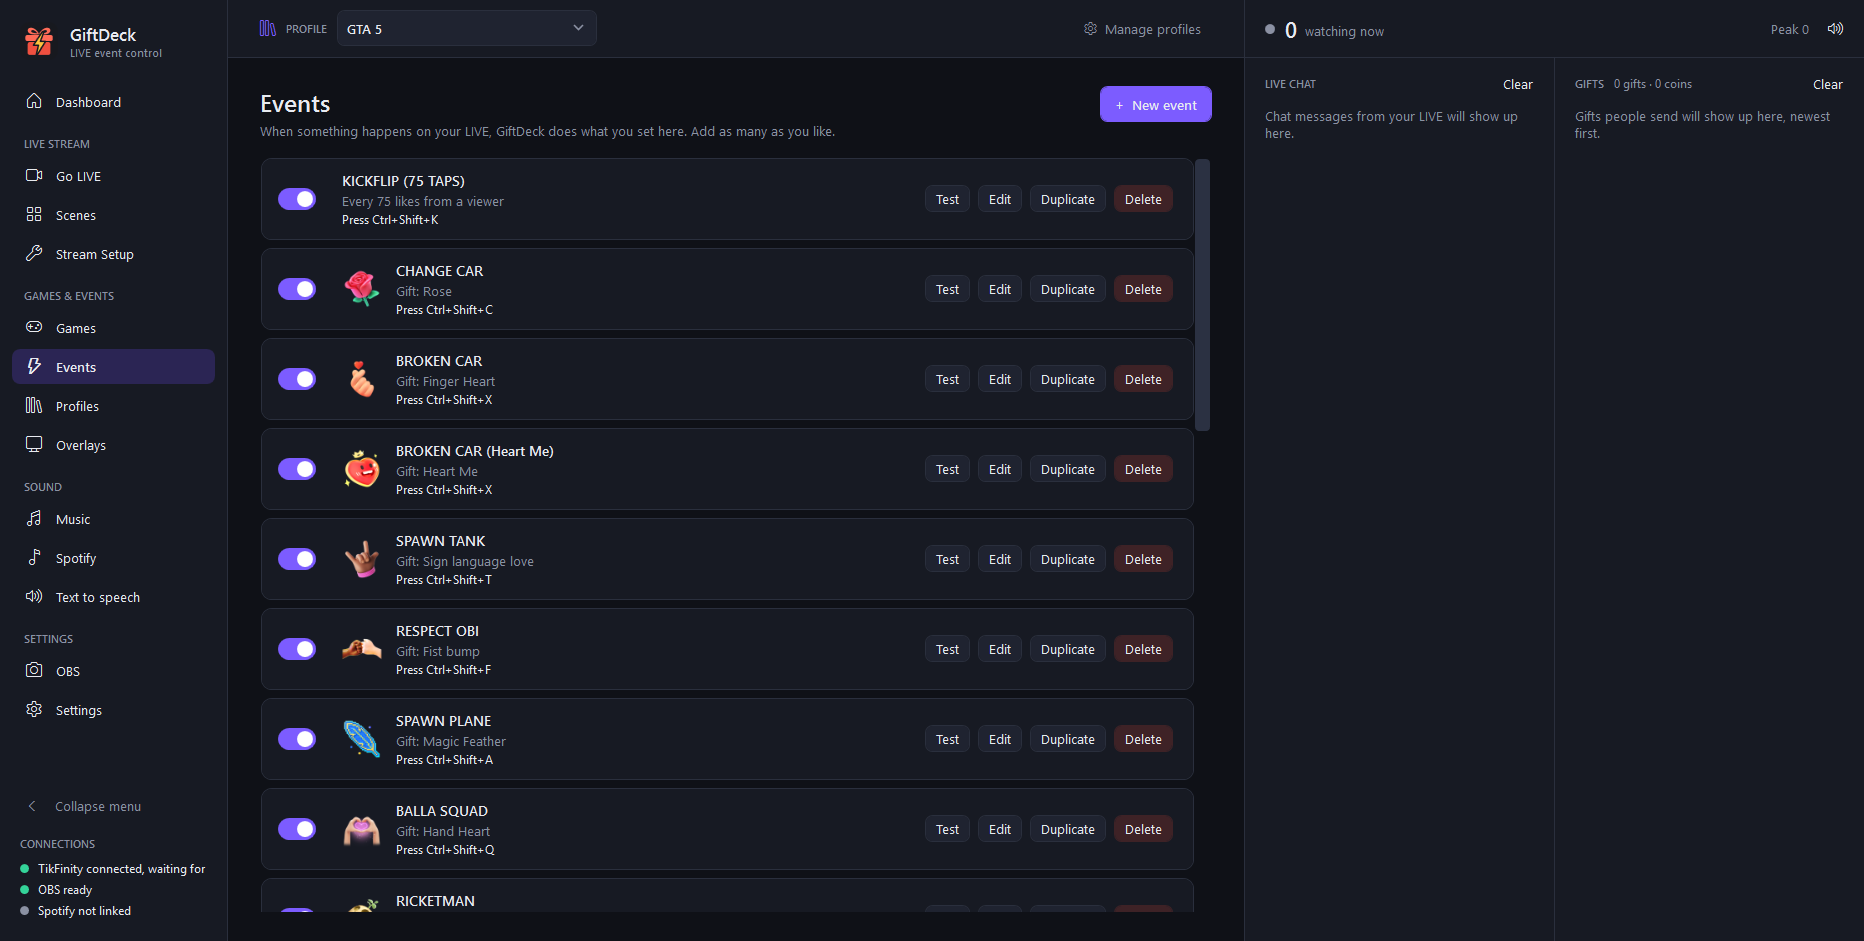
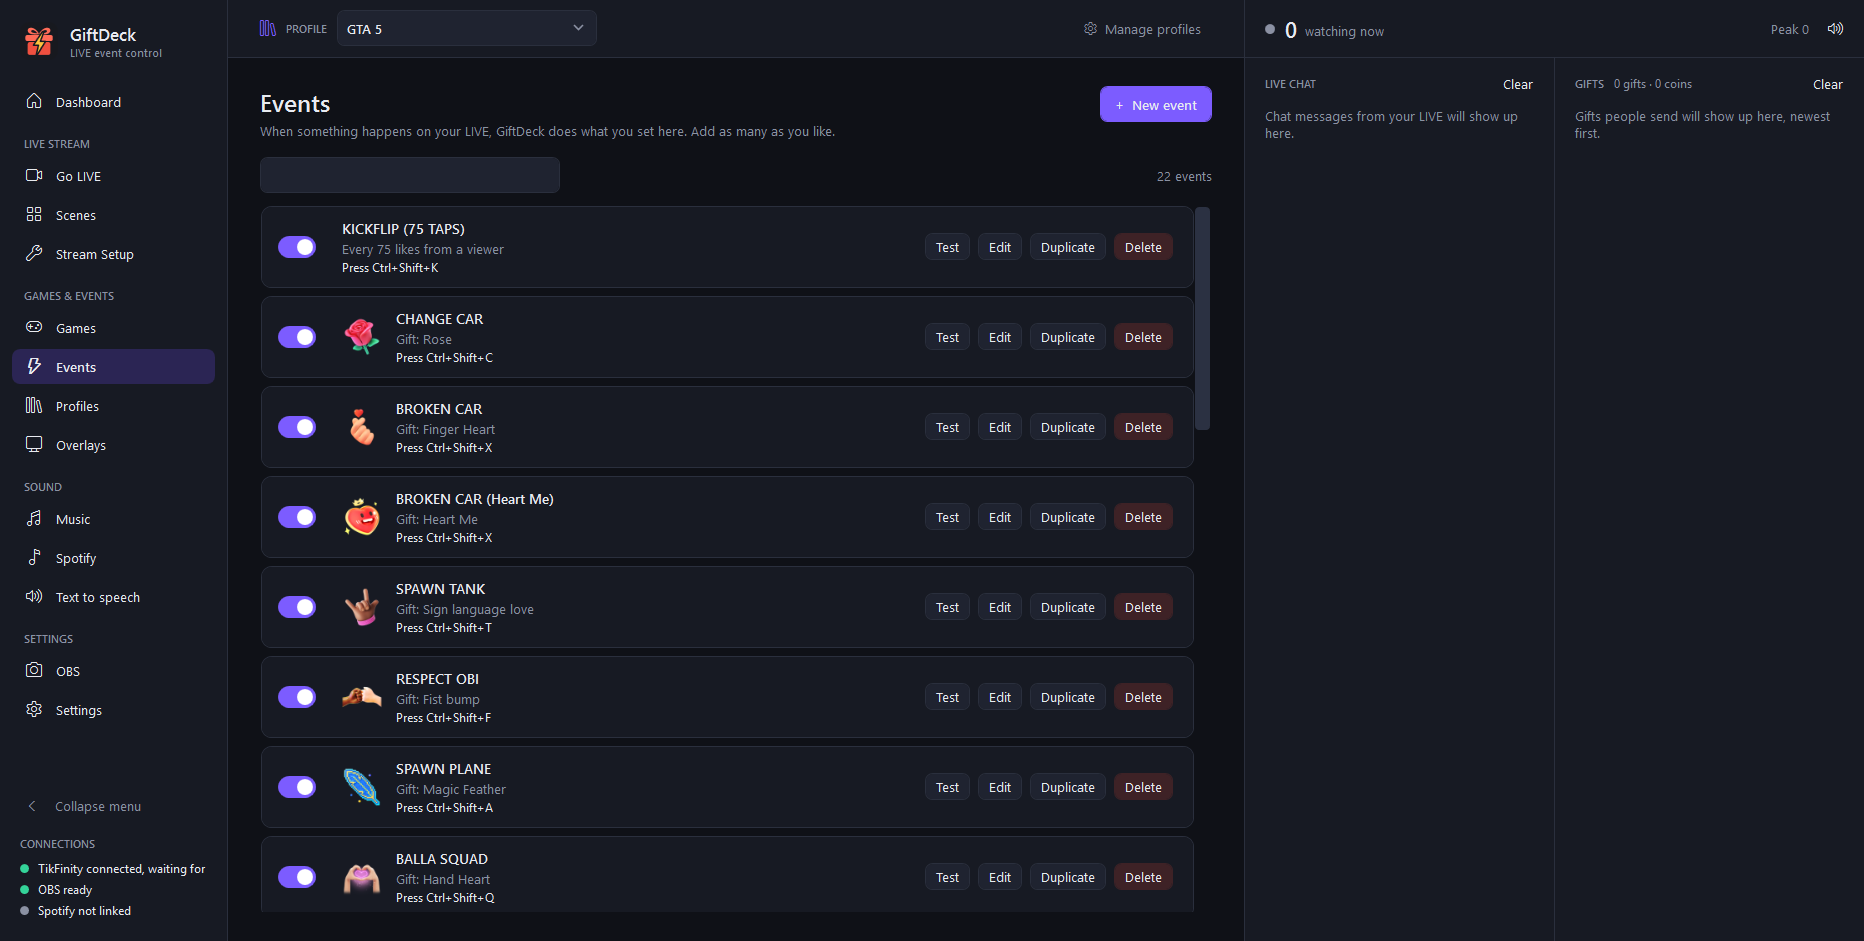
Final review fixes, README for the new features, new screenshots
- Editors: Cancel no longer asks "Discard changes?" twice
- Relay: catch ffmpeg exiting before the Exited handler is attached (status no longer sticks on "restarting")
- TTS: a failed Windows-voice start no longer leaves the music ducked
- Combos: a new single gift right after a combo that never ended is counted; a combo carrying on after a pause still counts only the rest
- Go LIVE: the page dropped on a profile switch stops listening to OBS/relay events
- Setup: each download goes to its own temp folder so a still-running installer can't block the next try
- Spotify explicit filter now off by default so existing song-request setups don't change
- README: Go LIVE recovery, Events page, combos, chat TTS, music ducking, Spotify limits, setup Cancel,
  data safety, starter scenes, troubleshooting; Google voices need an API key
- Screenshots: new scenes.png (thumbnails pixelated), refreshed events.png and tts.png

Changed region(s): [[0.1245, 0.1849, 0.3112, 0.9862], [0.4979, 0.1541, 0.6534, 0.9862]]

diff --git a/Views/GoLiveView.xaml.cs b/Views/GoLiveView.xaml.cs
@@ -48,15 +48,37 @@ public partial class GoLiveView : UserControl
         _clock.Start();
         IsVisibleChanged += (a, b) => { if (IsVisible) _ = PreviewLoopAsync(); };
 
-        Tt.StatusChanged += () => Dispatcher.BeginInvoke(UpdateLive);
+        _onStatus = () => Dispatcher.BeginInvoke(UpdateLive);
+        _onStreamStopped = () => Dispatcher.BeginInvoke(OnStreamStopped);
+        _onEngine = () => Dispatcher.BeginInvoke(OnEngineChanged);
+        _onResumed = ok => Dispatcher.BeginInvoke(() => OnSendingResumed(ok));
+        _onRelay = () => Dispatcher.BeginInvoke(OnRelayProblem);
+        Tt.StatusChanged += _onStatus;
         Details.RestartRequested += RestartLive;
-        Hub.TikFinity.StatusChanged += () => Dispatcher.BeginInvoke(UpdateLive);
-        BridgeService.AccountChanged += () => Dispatcher.BeginInvoke(UpdateLive);
-        Hub.Obs.StreamStopped += () => Dispatcher.BeginInvoke(OnStreamStopped);
-        Hub.Engine.StatusChanged += () => Dispatcher.BeginInvoke(OnEngineChanged);
-        Hub.Engine.SendingResumed += ok => Dispatcher.BeginInvoke(() => OnSendingResumed(ok));
-        Hub.Relay.ProblemChanged += () => Dispatcher.BeginInvoke(OnRelayProblem);
+        Hub.TikFinity.StatusChanged += _onStatus;
+        BridgeService.AccountChanged += _onStatus;
+        Hub.Obs.StreamStopped += _onStreamStopped;
+        Hub.Engine.StatusChanged += _onEngine;
+        Hub.Engine.SendingResumed += _onResumed;
+        Hub.Relay.ProblemChanged += _onRelay;
         UpdateLive();
+    }
+
+    readonly Action _onStatus, _onStreamStopped, _onEngine, _onRelay;
+    readonly Action<bool> _onResumed;
+
+    // The main window drops this page (a profile switch builds a new one): stop listening, so the old page
+    // doesn't keep reacting to OBS and the LIVE next to the new one.
+    public void Detach()
+    {
+        _clock.Stop();
+        Tt.StatusChanged -= _onStatus;
+        Hub.TikFinity.StatusChanged -= _onStatus;
+        BridgeService.AccountChanged -= _onStatus;
+        Hub.Obs.StreamStopped -= _onStreamStopped;
+        Hub.Engine.StatusChanged -= _onEngine;
+        Hub.Engine.SendingResumed -= _onResumed;
+        Hub.Relay.ProblemChanged -= _onRelay;
     }
 
     // OBS's stream stopped while GiftDeck was sending to the LIVE (GiftDeck's own stops happen while _busy).

diff --git a/Services/RulesEngine.cs b/Services/RulesEngine.cs
@@ -55,7 +55,12 @@ public class RulesEngine
         lock (_streaks)
         {
             _streaks.TryGetValue(key, out var s);
-            if (s != null && e.RepeatCount < s.Last.RepeatCount) s.Counted = 0; // the count went back down: a new combo
+            // A new combo: the count went back down, or this one was already closed (quiet timeout) and the count
+            // didn't go up (a higher count is the same combo carrying on; the same count with an end is its late end).
+            bool lateEnd = e.RepeatEnd && e.RepeatCount == s?.Last.RepeatCount;
+            if (s != null && (e.RepeatCount < s.Last.RepeatCount
+                              || (s.Last.RepeatEnd && e.RepeatCount <= s.Last.RepeatCount && !lateEnd)))
+                s.Counted = 0;
             if (s == null)
             {
                 s = new Streak();

diff --git a/Services/SetupSteps.cs b/Services/SetupSteps.cs
@@ -163,7 +163,10 @@ public static class SetupSteps
 
     static async Task<string> DownloadAsync(HttpClient http, string url, string file, string name, IProgress<(double, string)> progress, CancellationToken cancel)
     {
-        var setup = Path.Combine(Path.GetTempPath(), "giftdeck-" + file);
+        // Its own folder each time: a cancelled installer may still have the last download open.
+        var dir = Path.Combine(Path.GetTempPath(), "giftdeck-" + DateTime.Now.ToString("yyyyMMdd-HHmmss-fff"));
+        Directory.CreateDirectory(dir);
+        var setup = Path.Combine(dir, file);
         int shown = -1;
         await DownloadFileAsync(http, url, setup, (done, total) =>
         {

diff --git a/Services/RelayService.cs b/Services/RelayService.cs
@@ -87,7 +87,11 @@ public class RelayService
         _process.BeginOutputReadLine();
         var p = _process;
         int gen = _generation;
-        _process.Exited += (s, e) => OnExited(p, gen);
+        // ffmpeg can die before the handler is attached (e.g. the port isn't free yet): catch that too, once.
+        int fired = 0;
+        void Fire() { if (Interlocked.Exchange(ref fired, 1) == 0) OnExited(p, gen); }
+        _process.Exited += (s, e) => Fire();
+        if (p.HasExited) Fire();
         _startedAt = DateTime.Now;
 
         Hub.TikTok.State.RelayPid = _process.Id;

diff --git a/Models/Models.cs b/Models/Models.cs
@@ -281,7 +281,7 @@ public class AppSettings
     public bool SpotifyChatRequests { get; set; } = false;
     public string SpotifyRequestCommand { get; set; } = "!sr";
     public int SpotifyRequestCooldownMinutes { get; set; } = 5; // per viewer, for chat requests
-    public bool SpotifyBlockExplicit { get; set; } = true;
+    public bool SpotifyBlockExplicit { get; set; } = false;
 
     public string TtsVoice { get; set; } = "";
     public int TtsRate { get; set; } = 0;

diff --git a/Services/TtsService.cs b/Services/TtsService.cs
@@ -132,7 +132,12 @@ public class TtsService
             synth.SpeakAsync(text);
             return true;
         }
-        catch (Exception e) { Log.Write("TTS failed: " + e.Message); return false; }
+        catch (Exception e)
+        {
+            Interlocked.Decrement(ref _localPending); // it never started, so it will never complete
+            Log.Write("TTS failed: " + e.Message);
+            return false;
+        }
     }
 
     int _localPending;

diff --git a/MainWindow.xaml.cs b/MainWindow.xaml.cs
@@ -175,6 +175,7 @@ public partial class MainWindow : Window
         WarnUnreadable();
         if (_shownProfile == Hub.Profiles.Active) return;
         _shownProfile = Hub.Profiles.Active;
+        if (_views.TryGetValue("golive", out var oldGoLive) && oldGoLive is GoLiveView goLive) goLive.Detach();
         foreach (var key in new[] { "events", "overlays", "golive" }) _views.Remove(key);
         if (key_is_current()) Show(_currentPage);
 

diff --git a/Views/RuleEditorWindow.xaml.cs b/Views/RuleEditorWindow.xaml.cs
@@ -256,9 +256,6 @@ public partial class RuleEditorWindow : Window, IActionHost
 
     void Fail(string message) => ErrorText.Text = message;
 
-    void Cancel_Click(object sender, RoutedEventArgs e)
-    {
-        DialogResult = false;
-        Close();
-    }
+    // Just Close: setting DialogResult would close too, and a second close would ask "Discard changes?" twice.
+    void Cancel_Click(object sender, RoutedEventArgs e) => Close();
 }

diff --git a/Views/PrizeActionsWindow.xaml.cs b/Views/PrizeActionsWindow.xaml.cs
@@ -52,9 +52,6 @@ public partial class PrizeActionsWindow : Window, IActionHost
         Close();
     }
 
-    void Cancel_Click(object sender, RoutedEventArgs e)
-    {
-        DialogResult = false;
-        Close();
-    }
+    // Just Close: setting DialogResult would close too, and a second close would ask "Discard changes?" twice.
+    void Cancel_Click(object sender, RoutedEventArgs e) => Close();
 }

diff --git a/README.md b/README.md
@@ -83,8 +83,8 @@ cleanly and puts your own OBS setup back.
 | ![GTA V game pack](docs/screenshots/game-gta5.png) | ![Minecraft game pack](docs/screenshots/game-minecraft.png) |
 | **Events** | **Text to speech** |
 | ![Events](docs/screenshots/events.png) | ![Text to speech](docs/screenshots/tts.png) |
-
-![Overlays: the all-in-one overlay](docs/screenshots/overlays.png)
+| **Scenes** | **Overlays** |
+| ![The Scenes page with Create starter scenes](docs/screenshots/scenes.png) | ![Overlays: the all-in-one overlay](docs/screenshots/overlays.png) |
 
 ## Download and install
 
@@ -128,11 +128,16 @@ GiftDeck opens on a setup screen that goes through, in order, only what's still 
    QR code is quickest). GiftDeck spots the login by itself and offers to close Streamlabs.
 2. **OBS Studio** and 3. **Aitum Stream Suite**: download and install, one button each.
 4. **Portrait OBS.** GiftDeck makes a "GiftDeck Portrait" copy of your vertical scenes (your own OBS
-   setup isn't changed) and from then on runs OBS hidden on it.
+   setup isn't changed) and from then on runs OBS hidden on it. If your own OBS is open, it asks
+   before closing it.
 5. **TikFinity** (for 18+ LIVEs): install it, log in with the QR code, and switch off TikFinity's own
    Events (GiftDeck runs your events; otherwise gifts would fire twice).
 6. **Your TikTok username**, filled in from your Streamlabs login.
 7. **Ready check.** Waits until OBS and your LIVE reader are connected, then opens the app.
+
+Every download and install has a **Cancel** button. A download that stalls for 30 seconds stops by
+itself, and half-finished files are deleted, so you can just press the button again. You can also
+cancel the Streamlabs login if you change your mind.
 
 Someone who's already set up only sees the ready check for a few seconds. **Stream Setup** has the same
 steps as a checklist, plus the choice of how GiftDeck reads your LIVE:
@@ -143,9 +148,10 @@ steps as a checklist, plus the choice of how GiftDeck reads your LIVE:
 
 ## Going live
 
-On **Go LIVE**, set the title and category, pick your scene, and press **Go LIVE**. GiftDeck opens the
-LIVE on TikTok, sends OBS the stream key, starts streaming, and shows **✓ TikTok confirms you're live**
-once TikTok shows it (or a clear warning after 90 seconds).
+On **Go LIVE**, set the title and category, pick your scene, and press **Go LIVE**. GiftDeck checks OBS
+is ready first, then opens the LIVE on TikTok, sends OBS the stream key, starts streaming, and shows
+**✓ TikTok confirms you're live** once TikTok shows it (or a clear warning after 90 seconds). The
+buttons wait while one step is running, so you can't start the same LIVE twice.
 
 - **Scenes:** one button per scene (sizes S, M, L; a search box appears when you have lots), with the
   live scene in red. The **Scenes** page adds thumbnails, layers and an audio mixer.
@@ -156,8 +162,12 @@ once TikTok shows it (or a clear warning after 90 seconds).
   **Restart LIVE with these details**: it ends the LIVE and opens a new one straight away. Viewers have
   to rejoin; GiftDeck's own totals keep counting.
 - **TTS on/muted** next to the Go LIVE button, and the music player.
-- **End LIVE** stops OBS and closes the LIVE. Closing GiftDeck shows *Shutting down GiftDeck* until OBS
-  has closed and your own OBS setup is back.
+- **If sending stops:** when OBS stops streaming by itself, Go LIVE says *Not sending* and offers
+  **Start sending again**. If GiftDeck's OBS closes mid-LIVE, GiftDeck starts it again and carries on
+  sending to the same LIVE. The vertical relay to TikTok restarts itself too.
+- **End LIVE** stops OBS and closes the LIVE. If TikTok doesn't answer, press it again. Closing GiftDeck
+  while you're LIVE asks first. Closing it shows *Shutting down GiftDeck* until OBS has closed and your
+  own OBS setup is back.
 
 > **Mature audience (18+)** limits who can see your LIVE, and means GiftDeck has to read it through TikFinity.
 
@@ -221,7 +231,16 @@ each event can listen to TikTok, Kick, or both.
 | Run a program | anything on your PC |
 
 **Combos:** by default a combo (e.g. 15 Roses in a row) runs the event once when the combo ends. Per
-event you can instead run the actions once per gift, with a cap.
+event you can instead run the actions once per gift, with a cap. If TikTok never sends the end of a
+combo, it still counts after 5 quiet seconds.
+
+**The Events page:** type in the search box to filter by name, gift, trigger or action; the count shows
+how many events you have. Double-click an event (or select it and press **Enter**) to edit it, and
+press **Delete** to delete it. The editor asks before throwing away unsaved changes: **Esc** cancels and
+**Ctrl+S** saves. Number boxes accept `1,000` as well as `1000`.
+
+**Test** runs an event straight away. If it presses keys, it counts down 3 seconds first so you can
+click into your game. Test events show their alerts but don't change goals, timers or top gifters.
 
 ## Overlays, alerts and the Gift Spinner
 
@@ -241,10 +260,16 @@ creates the Browser Source for you, sound included):
 
 ## Text to speech
 
-Speak chat messages and event text with a Windows voice or one of two **free Google voices (male and
-female, online)**. Each profile keeps its own voice, speed, volume and chat reading. The speaker button
+Speak chat messages and event text with a Windows voice or one of two **Google voices (male and
+female, online)**. The Google voices need a Google speech API key: paste it on the **Text to speech** page
+(it stays in your settings on this PC). Each profile keeps its own voice, speed, volume and chat reading. The speaker button
 on the right-hand panel and on Go LIVE **mutes** everything at once (it stays muted after a restart, and
 the menu shows *Text to speech (muted)* so you don't forget).
+
+**Reading chat** stays calm on a busy LIVE: commands (`!like this`) aren't read, links are read as
+"a link", each viewer is read at most once every 4 seconds, and when chat is faster than the voice new
+messages are skipped so it keeps up. If you pick a Google voice before adding the key, GiftDeck speaks
+with the Windows voice instead (the page tells you).
 
 ## Kick
 
@@ -263,7 +288,13 @@ duplicate, rename, delete, **Export** a profile as one `.giftdeck` file (with it
 ## Music
 
 The **Music** page (and the player on **Go LIVE**) streams free Creative Commons tracks from Jamendo,
-shuffled, one after another. Pick a style and keep *Instrumental only* on to talk over it.
+shuffled, one after another. Pick a style and keep *Instrumental only* on to talk over it. The music
+turns down while text to speech is talking (**Turn the music down while text to speech is talking** on
+the Music page, on by default).
+
+**Spotify song requests** from chat have a per-viewer wait between requests (5 minutes by default, 0 for
+no limit), and you can tick a box so songs Spotify marks as explicit aren't queued. Both are on the **Spotify**
+page.
 
 > Many Jamendo tracks are licensed for non-commercial use, and a gift-earning LIVE may not count as
 > that. If TikTok ever mutes a moment, skip the track or change style.
@@ -298,6 +329,9 @@ flowchart LR
 - In the app, tokens, stream keys, client IDs and passwords show as dots until you click the eye button.
 - The files in `%APPDATA%\GiftDeck` are plain JSON. Anyone with access to your Windows account can read
   them, so don't share that folder.
+- If a settings or events file can't be read (after a crash, say), GiftDeck keeps the old file aside,
+  untouched, as `<name>.unreadable-<date>`, and tells you where. `log.txt` rolls over to `log.old.txt`
+  at 5 MB.
 
 ## Troubleshooting
 
@@ -311,6 +345,8 @@ flowchart LR
 | GTA: nothing happens | Games → GTA V should say **Connected in game**. Story Mode only, prologue finished, BattlEye off. |
 | Minecraft: commands do nothing | Join the server first (`localhost`); most commands need a player online. |
 | Music: **"didn't accept that Client ID"** | Copy the Jamendo Client ID again, all of it. |
+| Screen capture is black in *Just Screen* / *Cam + Game* | It only draws while the scene is live or previewed, so switch to it. On a laptop, open *Windows Settings → System → Display → Graphics*, add OBS and pick the graphics card your screen runs on. |
+| **Some saved files couldn't be read** at start-up | The message lists where the old files were kept (in `%APPDATA%\GiftDeck`, ending `.unreadable-<date>`). Those settings or events started over empty; the kept copy is the file as it was. |
 
 GiftDeck's own log is at `%APPDATA%\GiftDeck\log.txt`.
 
@@ -362,7 +398,7 @@ GiftDeck/
 
 GiftDeck is an independent project, **not affiliated with or endorsed by TikTok, ByteDance, Kick,
 Streamlabs, OBS, Aitum, TikFinity, Rockstar Games, Take-Two, Mojang, Microsoft, Google, Jamendo or
-Spotify**. Reading a LIVE, opening a LIVE through Streamlabs, the free Google voices and Kick's chat feed
+Spotify**. Reading a LIVE, opening a LIVE through Streamlabs, the Google voices and Kick's chat feed
 rely on unofficial interfaces that can change or stop working at any time. Game mods are for single-player
 / your own server only. Use it at your own risk and within each service's and game's terms.
 
